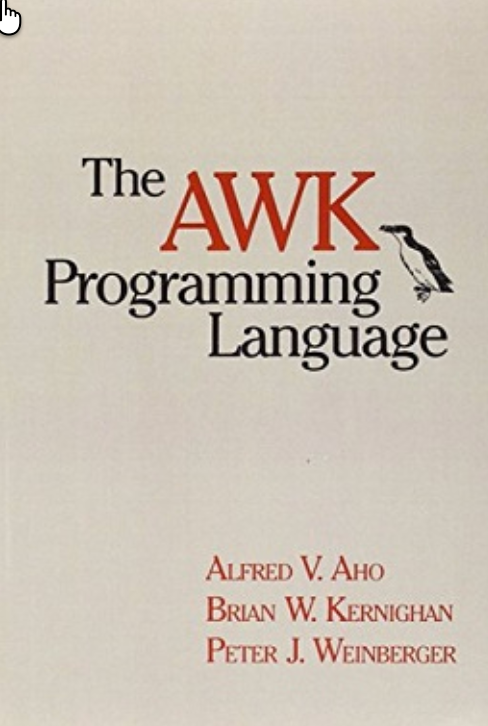
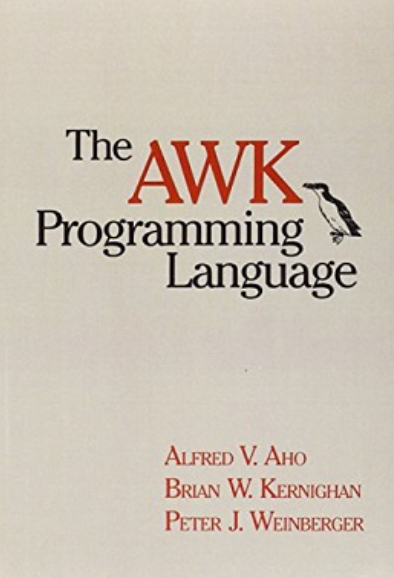
fixed links and formatting

diff --git a/docs/supplementary-content/raspberry-pi-500-plus-impact.md b/docs/supplementary-content/raspberry-pi-500-plus-impact.md
@@ -1,108 +1,109 @@
 # The Raspberry Pi 500+ Announcement: Impact on High School STEM Labs
 
-  ## Overview of the Raspberry Pi 500+
+## Overview of the Raspberry Pi 500+
 
-  In September 2025, the Raspberry Pi Foundation
-  https://www.raspberrypi.com/news/the-ultimate-all-in-one-pc-raspberry-pi-500-plus-on-sale-now-at-200/, their
-  premium "computer-in-a-keyboard" desktop solution priced at $200 ($220 for the Desktop Kit). This builds on the
-  original Raspberry Pi 500 ($90) released earlier, offering substantial upgrades for more demanding educational and
-  professional use cases.
+In September 2025, the Raspberry Pi Foundation announced the
+[Raspberry Pi 500+](https://www.raspberrypi.com/products/raspberry-pi-500-plus/?variant=500-plus-us)
+In that [announcement](https://www.raspberrypi.com/news/the-ultimate-all-in-one-pc-raspberry-pi-500-plus-on-sale-now-at-200/), they priced their
+premium "computer-in-a-keyboard" desktop solution priced at $200 ($220 for the Desktop Kit). This builds on the
+original Raspberry Pi 500 ($90) released earlier, offering substantial upgrades for more demanding educational and
+professional use cases.
 
-  ## Specifications
+## Specifications
 
-  | Feature      | Raspberry Pi 500+                                               |
-  |--------------|-----------------------------------------------------------------|
-  | CPU          | 2.4GHz quad-core 64-bit Arm Cortex-A76                          |
-  | RAM          | 16GB LPDDR4X-4267                                               |
-  | Storage      | 256GB NVMe SSD (internal M.2 slot)                              |
-  | GPU          | VideoCore VII                                                   |
-  | Keyboard     | Mechanical RGB (Gateron KS-33 Blue switches)                    |
-  | Connectivity | Dual-band Wi-Fi (802.11ac), Bluetooth 5.0/BLE, Gigabit Ethernet |
-  | Ports        | 2x USB 3.0, 1x USB 2.0, Dual micro-HDMI (4K), 40-pin GPIO       |
-  | M.2 Support  | 2230, 2242, 2260, 2280 form factors                             |
-  | Price        | $200 (unit) / $220 (Desktop Kit with mouse, PSU, cable, guide)  |
+| Feature      | Raspberry Pi 500+                                               |
+|--------------|-----------------------------------------------------------------|
+| CPU          | 2.4GHz quad-core 64-bit Arm Cortex-A76                          |
+| RAM          | 16GB LPDDR4X-4267                                               |
+| Storage      | 256GB NVMe SSD (internal M.2 slot)                              |
+| GPU          | VideoCore VII                                                   |
+| Keyboard     | Mechanical RGB (Gateron KS-33 Blue switches)                    |
+| Connectivity | Dual-band Wi-Fi (802.11ac), Bluetooth 5.0/BLE, Gigabit Ethernet |
+| Ports        | 2x USB 3.0, 1x USB 2.0, Dual micro-HDMI (4K), 40-pin GPIO       |
+| M.2 Support  | 2230, 2242, 2260, 2280 form factors                             |
+| Price        | $200 (unit) / $220 (Desktop Kit with mouse, PSU, cable, guide)  |
 
-  ## Impact on High School STEM Labs
+## Impact on High School STEM Labs
 
-  ### 1. Dramatic Cost Reduction
+### 1. Dramatic Cost Reduction
 
-  Traditional computer labs cost $800-1,500+ per workstation. A 25-seat STEM lab comparison:
+Traditional computer labs cost $800-1,500+ per workstation. A 25-seat STEM lab comparison:
 
-  | Setup               | Cost per Seat | 25-Seat Lab Total |
-  |---------------------|---------------|-------------------|
-  | Traditional PC      | $1,000-1,500  | $25,000-37,500    |
-  | Pi 500+ Desktop Kit | $220          | $5,500            |
-  | Pi 500 Desktop Kit  | $120          | $3,000            |
+| Setup               | Cost per Seat | 25-Seat Lab Total |
+|---------------------|---------------|-------------------|
+| Traditional PC      | $1,000-1,500  | $25,000-37,500    |
+| Pi 500+ Desktop Kit | $220          | $5,500            |
+| Pi 500 Desktop Kit  | $120          | $3,000            |
 
-  Schools can deploy a https://opensource.com/article/18/3/computer-lab-school-raspberry-pi using Raspberry Pi
-  devices—a fraction of traditional costs.
+Schools can deploy a https://opensource.com/article/18/3/computer-lab-school-raspberry-pi using Raspberry Pi
+devices—a fraction of traditional costs.
 
-  ### 2. Real Computing Power for Modern Curriculum
+### 2. Real Computing Power for Modern Curriculum
 
-  The Pi 500+ is no longer a "toy" computer:
-  - 16GB RAM handles VS Code, multiple browser tabs, and development environments
-  - 256GB NVMe SSD provides fast boot times and ample storage for projects
-  - Dual 4K display support enables professional-grade visual work
-  - Runs full Raspberry Pi OS (Debian-based Linux), Python, Scratch, and web development tools
+The Pi 500+ is no longer a "toy" computer:
+- 16GB RAM handles VS Code, multiple browser tabs, and development environments
+- 256GB NVMe SSD provides fast boot times and ample storage for projects
+- Dual 4K display support enables professional-grade visual work
+- Runs full Raspberry Pi OS (Debian-based Linux), Python, Scratch, and web development tools
 
-  This makes it suitable for teaching:
-  - Linux system administration
-  - Python programming
-  - Web development (HTML/CSS/JS, Node.js)
-  - Data science basics
-  - Robotics and physical computing (GPIO pins)
+This makes it suitable for teaching:
+- Linux system administration
+- Python programming
+- Web development (HTML/CSS/JS, Node.js)
+- Data science basics
+- Robotics and physical computing (GPIO pins)
 
-  ### 3. Physical Computing Integration
+### 3. Physical Computing Integration
 
-  Unlike traditional PCs, the Pi 500+ retains the 40-pin GPIO header, enabling direct integration with:
-  - Sensors and actuators
-  - Robotics projects
-  - IoT experimentation
-  - Electronics prototyping
+Unlike traditional PCs, the Pi 500+ retains the 40-pin GPIO header, enabling direct integration with:
+- Sensors and actuators
+- Robotics projects
+- IoT experimentation
+- Electronics prototyping
 
-  Students learn both software AND hardware—a unique advantage for STEM education.
+Students learn both software AND hardware—a unique advantage for STEM education.
 
-  ### 4. Durability and Maintenance
+### 4. Durability and Maintenance
 
-  - Solid-state design with no moving parts (fanless operation)
-  - Lower power consumption (~15-27W vs. 200-500W for traditional PCs)
-  - Simple recovery—reflash the SD card or reinstall on NVMe
-  - Reduced IT burden—standardized, reproducible setups
+- Solid-state design with no moving parts (fanless operation)
+- Lower power consumption (~15-27W vs. 200-500W for traditional PCs)
+- Simple recovery—reflash the SD card or reinstall on NVMe
+- Reduced IT burden—standardized, reproducible setups
 
-  ### 5. Considerations and Trade-offs
+### 5. Considerations and Trade-offs
 
-  According to https://www.tomshardware.com/raspberry-pi/raspberry-pi-500-plus-review, at $200, some may compare it
-  to budget laptops or Intel N100 mini PCs. However, the Pi 500+ offers:
-  - A complete keyboard-computer solution (no separate case/keyboard needed)
-  - GPIO for physical computing (unique advantage)
-  - Strong educational ecosystem and curriculum support
-  - Community and foundation resources
+According to https://www.tomshardware.com/raspberry-pi/raspberry-pi-500-plus-review, at $200, some may compare it
+to budget laptops or Intel N100 mini PCs. However, the Pi 500+ offers:
+- A complete keyboard-computer solution (no separate case/keyboard needed)
+- GPIO for physical computing (unique advantage)
+- Strong educational ecosystem and curriculum support
+- Community and foundation resources
 
-  Recommended Configurations for Schools
+Recommended Configurations for Schools
 
-  | Use Case                 | Model                    | Per-Seat Cost |
-  |--------------------------|--------------------------|---------------|
-  | Basic Linux/coding intro | Pi 500 ($90) + monitor   | ~$170-250     |
-  | Full STEM curriculum     | Pi 500+ ($220) + monitor | ~$300-400     |
-  | Budget-constrained       | Pi 4 (1GB) + peripherals | ~$120-150     |
+| Use Case                 | Model                    | Per-Seat Cost |
+|--------------------------|--------------------------|---------------|
+| Basic Linux/coding intro | Pi 500 ($90) + monitor   | ~$170-250     |
+| Full STEM curriculum     | Pi 500+ ($220) + monitor | ~$300-400     |
+| Budget-constrained       | Pi 4 (1GB) + peripherals | ~$120-150     |
 
-  ## Conclusion
+## Conclusion
 
-  The Raspberry Pi 500+ represents a significant milestone for affordable STEM education. At $200-220, schools can
-  deploy high-quality, capable Linux workstations that teach real-world skills—from command-line proficiency to
-  physical computing—at roughly 1/5 to 1/7 the cost of traditional PC labs. The inclusion of 16GB RAM, NVMe storage,
-  and mechanical keyboard transforms what was once a hobbyist device into a legitimate educational computing
-  platform.
+The Raspberry Pi 500+ represents a significant milestone for affordable STEM education. At $200-220, schools can
+deploy high-quality, capable Linux workstations that teach real-world skills—from command-line proficiency to
+physical computing—at roughly 1/5 to 1/7 the cost of traditional PC labs. The inclusion of 16GB RAM, NVMe storage,
+and mechanical keyboard transforms what was once a hobbyist device into a legitimate educational computing
+platform.
 
-  For high schools looking to expand STEM offerings without massive capital investment, the Pi 500 family offers an
-  unprecedented opportunity to democratize access to computing education.
+For high schools looking to expand STEM offerings without massive capital investment, the Pi 500 family offers an
+unprecedented opportunity to democratize access to computing education.
 
-  ---
-  ## Sources:
-  - https://www.raspberrypi.com/news/the-ultimate-all-in-one-pc-raspberry-pi-500-plus-on-sale-now-at-200/
-  - https://www.tomshardware.com/raspberry-pi/raspberry-pi-500-plus-review
-  - https://raspberrytips.com/raspberry-pi-500-plus-announced/
-  - https://opensource.com/article/18/3/computer-lab-school-raspberry-pi
-  - https://pidora.ca/transform-your-classroom-how-raspberry-pi-makes-stem-learning-come-alive/
-  - https://www.digikey.com/en/maker/blogs/2025/raspberry-pi-500-launches-with-256gb-nvme-ssd-and-16gb-ram
+---
+## Sources:
+- https://www.raspberrypi.com/news/the-ultimate-all-in-one-pc-raspberry-pi-500-plus-on-sale-now-at-200/
+- https://www.tomshardware.com/raspberry-pi/raspberry-pi-500-plus-review
+- https://raspberrytips.com/raspberry-pi-500-plus-announced/
+- https://opensource.com/article/18/3/computer-lab-school-raspberry-pi
+- https://pidora.ca/transform-your-classroom-how-raspberry-pi-makes-stem-learning-come-alive/
+- https://www.digikey.com/en/maker/blogs/2025/raspberry-pi-500-launches-with-256gb-nvme-ssd-and-16gb-ram
 

diff --git a/docs/about.md b/docs/about.md
@@ -2,7 +2,11 @@
 
 **TL;DR** - Linux knowledge can still be a critical part of careers in the age of AI.
 
-![Dan McCreary Business Card 1983](./img/dan-mccreary-bell-labs-business-card.jpg)
+![Dan at Bell Labs Cedar Crest Office in Allentown](./img/dan-at-bell-labs.jpeg){width="400px"}
+![Dan McCreary Business Card 1983](./img/dan-mccreary-bell-labs-business-card.jpg){width="300px"}
+
+Knowledge of UNIX and Linux can be a critical part of an engineer's career.
+Even for careers not directly within computer science.  Here is how I know this.
 
 I started working at Bell Labs in 1983 as a CMOS chip designer.
 Although I was right out of grad school, I was already
@@ -17,7 +21,10 @@ hours of time manually laying out repetitive chip masks.
 
 ## K&R
 
-![K&R Book cover](./img/k-and-r-book-cover.png)
+<style>
+img {border: solid black 2px;}
+</style>
+![K&R Book cover](./img/k-and-r-book-cover.png){ width="400px"}
 
 I was fortunate to lead efforts to move from fixed
 placement design to symbolic design, where chip
@@ -28,8 +35,9 @@ Brian Kernighan. Brian is the "K" in the famous "K&R"
 book, which became one of the [most popular programming
 books of all time](https://en.wikipedia.org/wiki/The_C_Programming_Language).
 
-![AWK Book Cover](./img/awk-book-cover.png)
+![AWK Book Cover](./img/awk-book-cover.png){ width="400px"}
 
+Brian was also the coauthor of the "awk" language.  He is the "K" in "awk".
 Brian suggested I work with him on a custom version of awk to generate
 symbolic layout for integrated circuits. This new language, called `awk-i`,
 became a central tool for our chip designers. I wrote hundreds of UNIX shell
